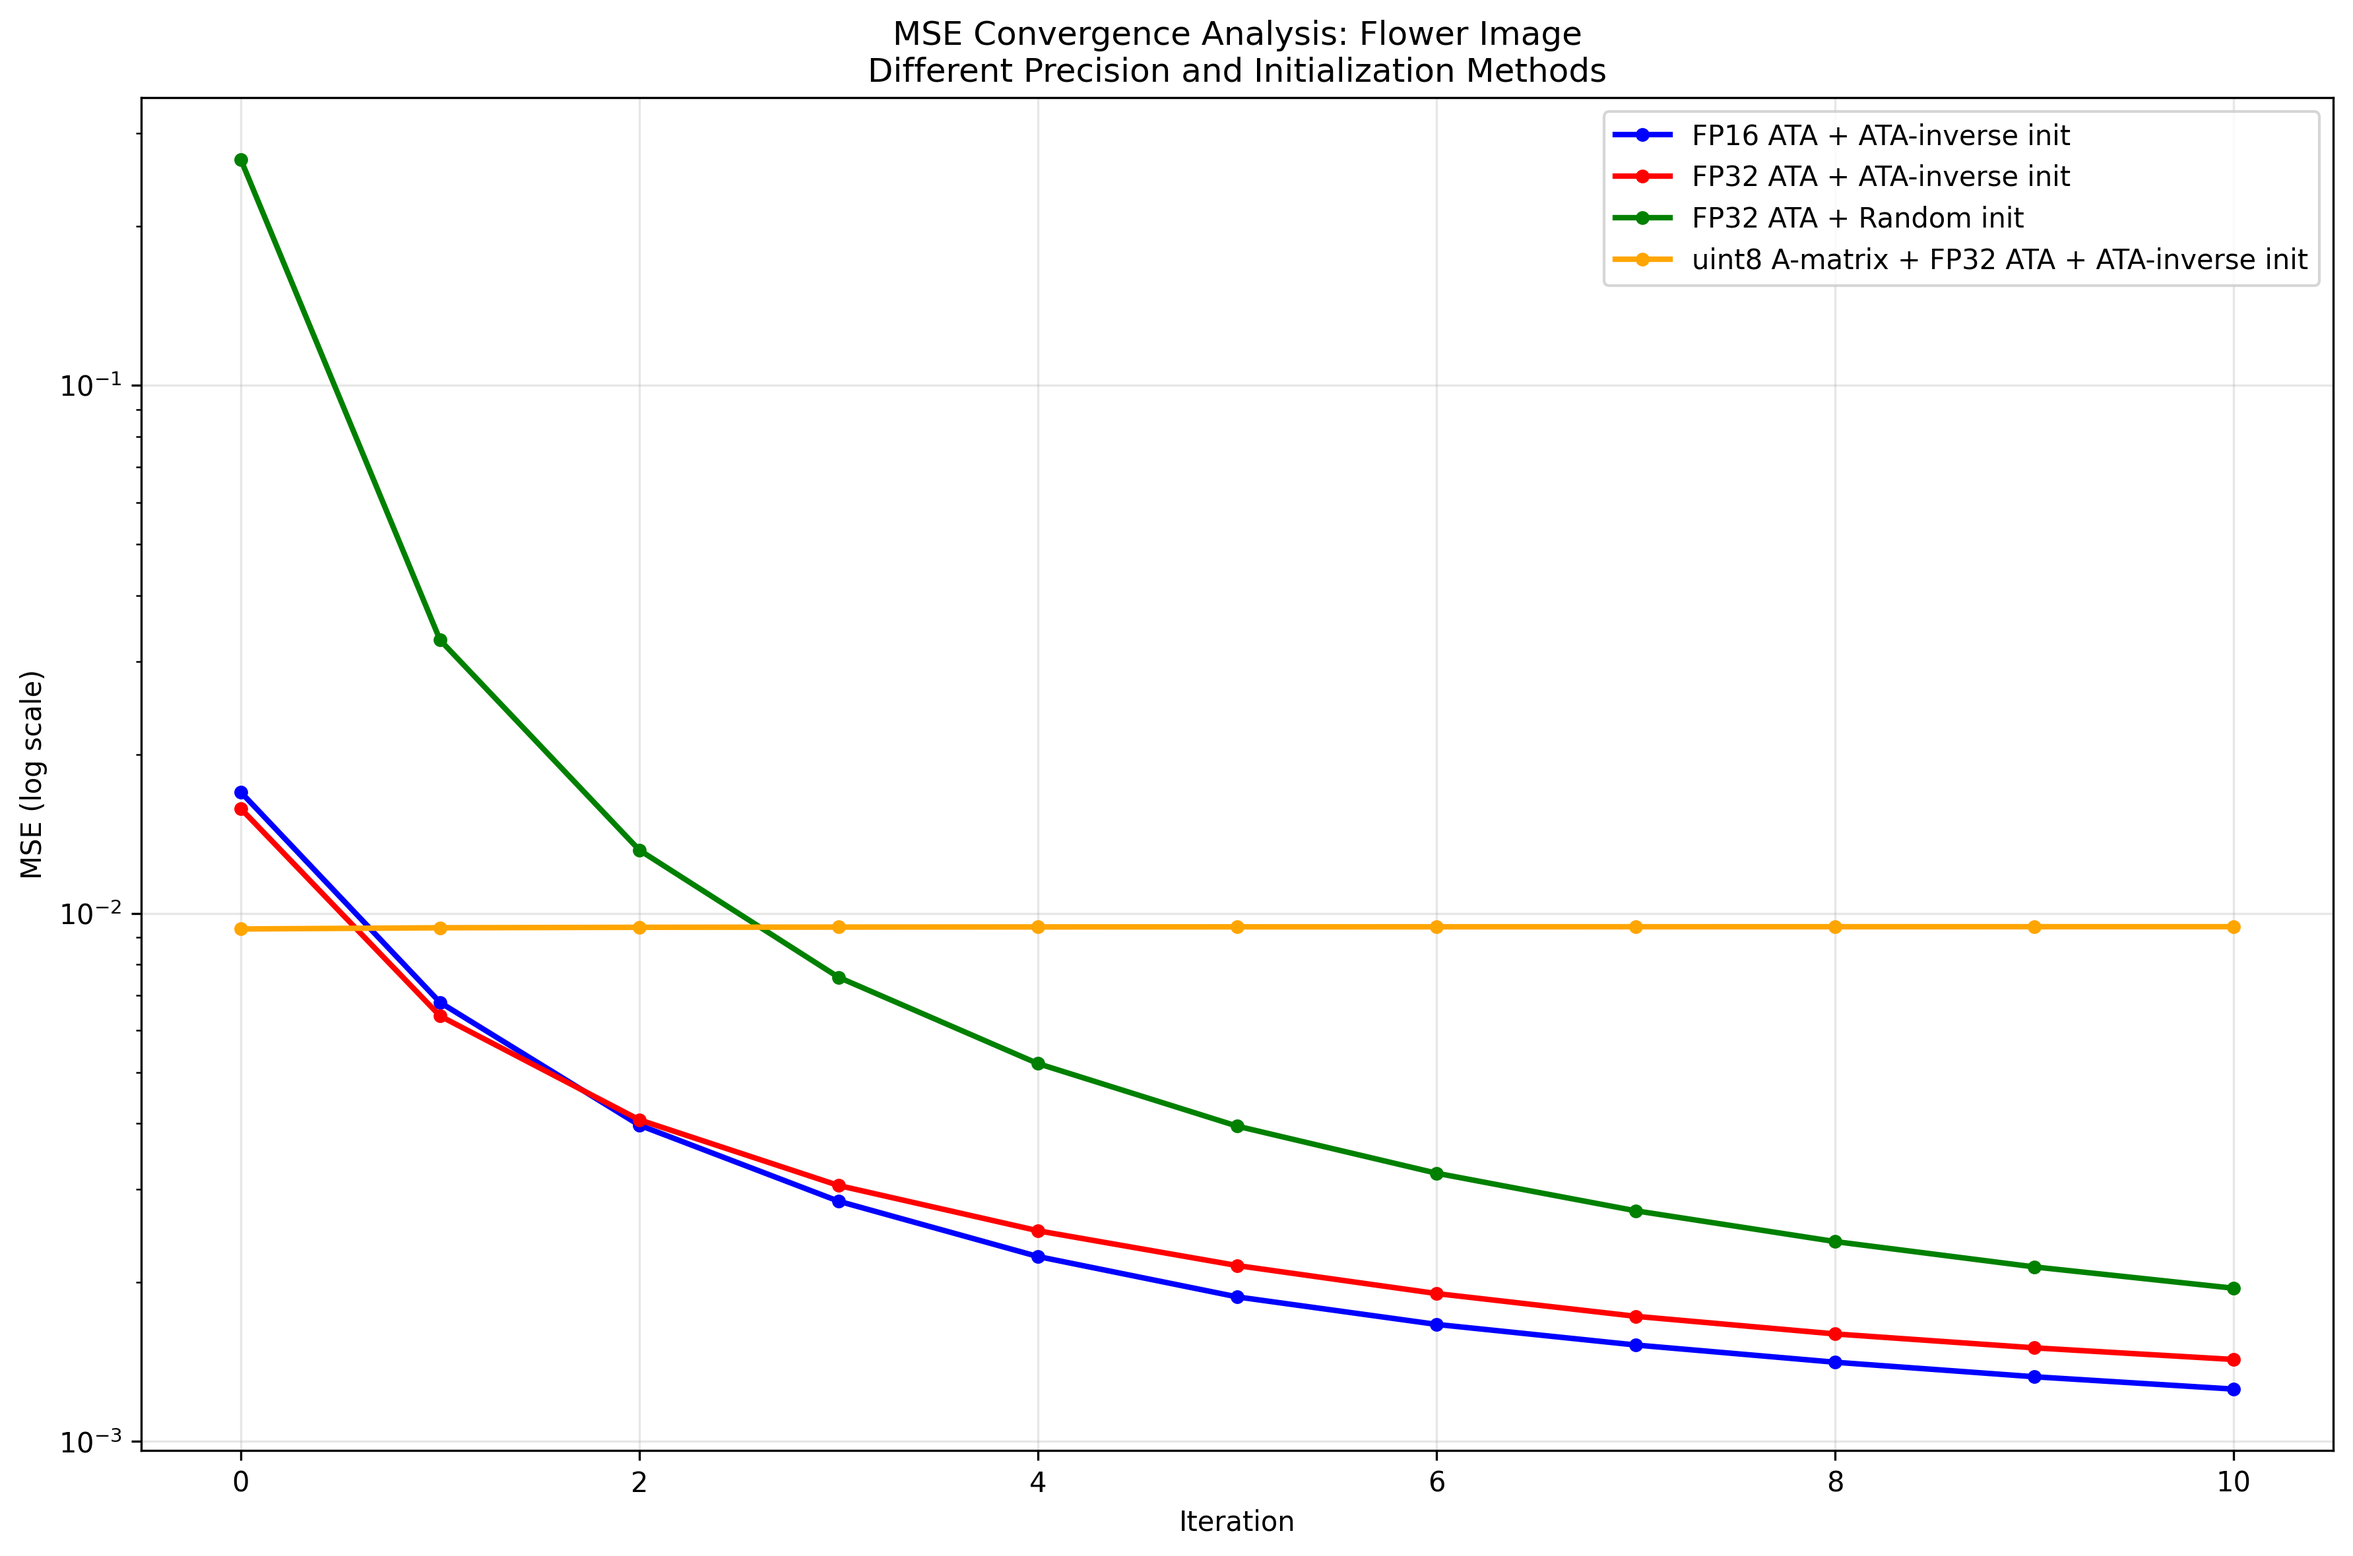
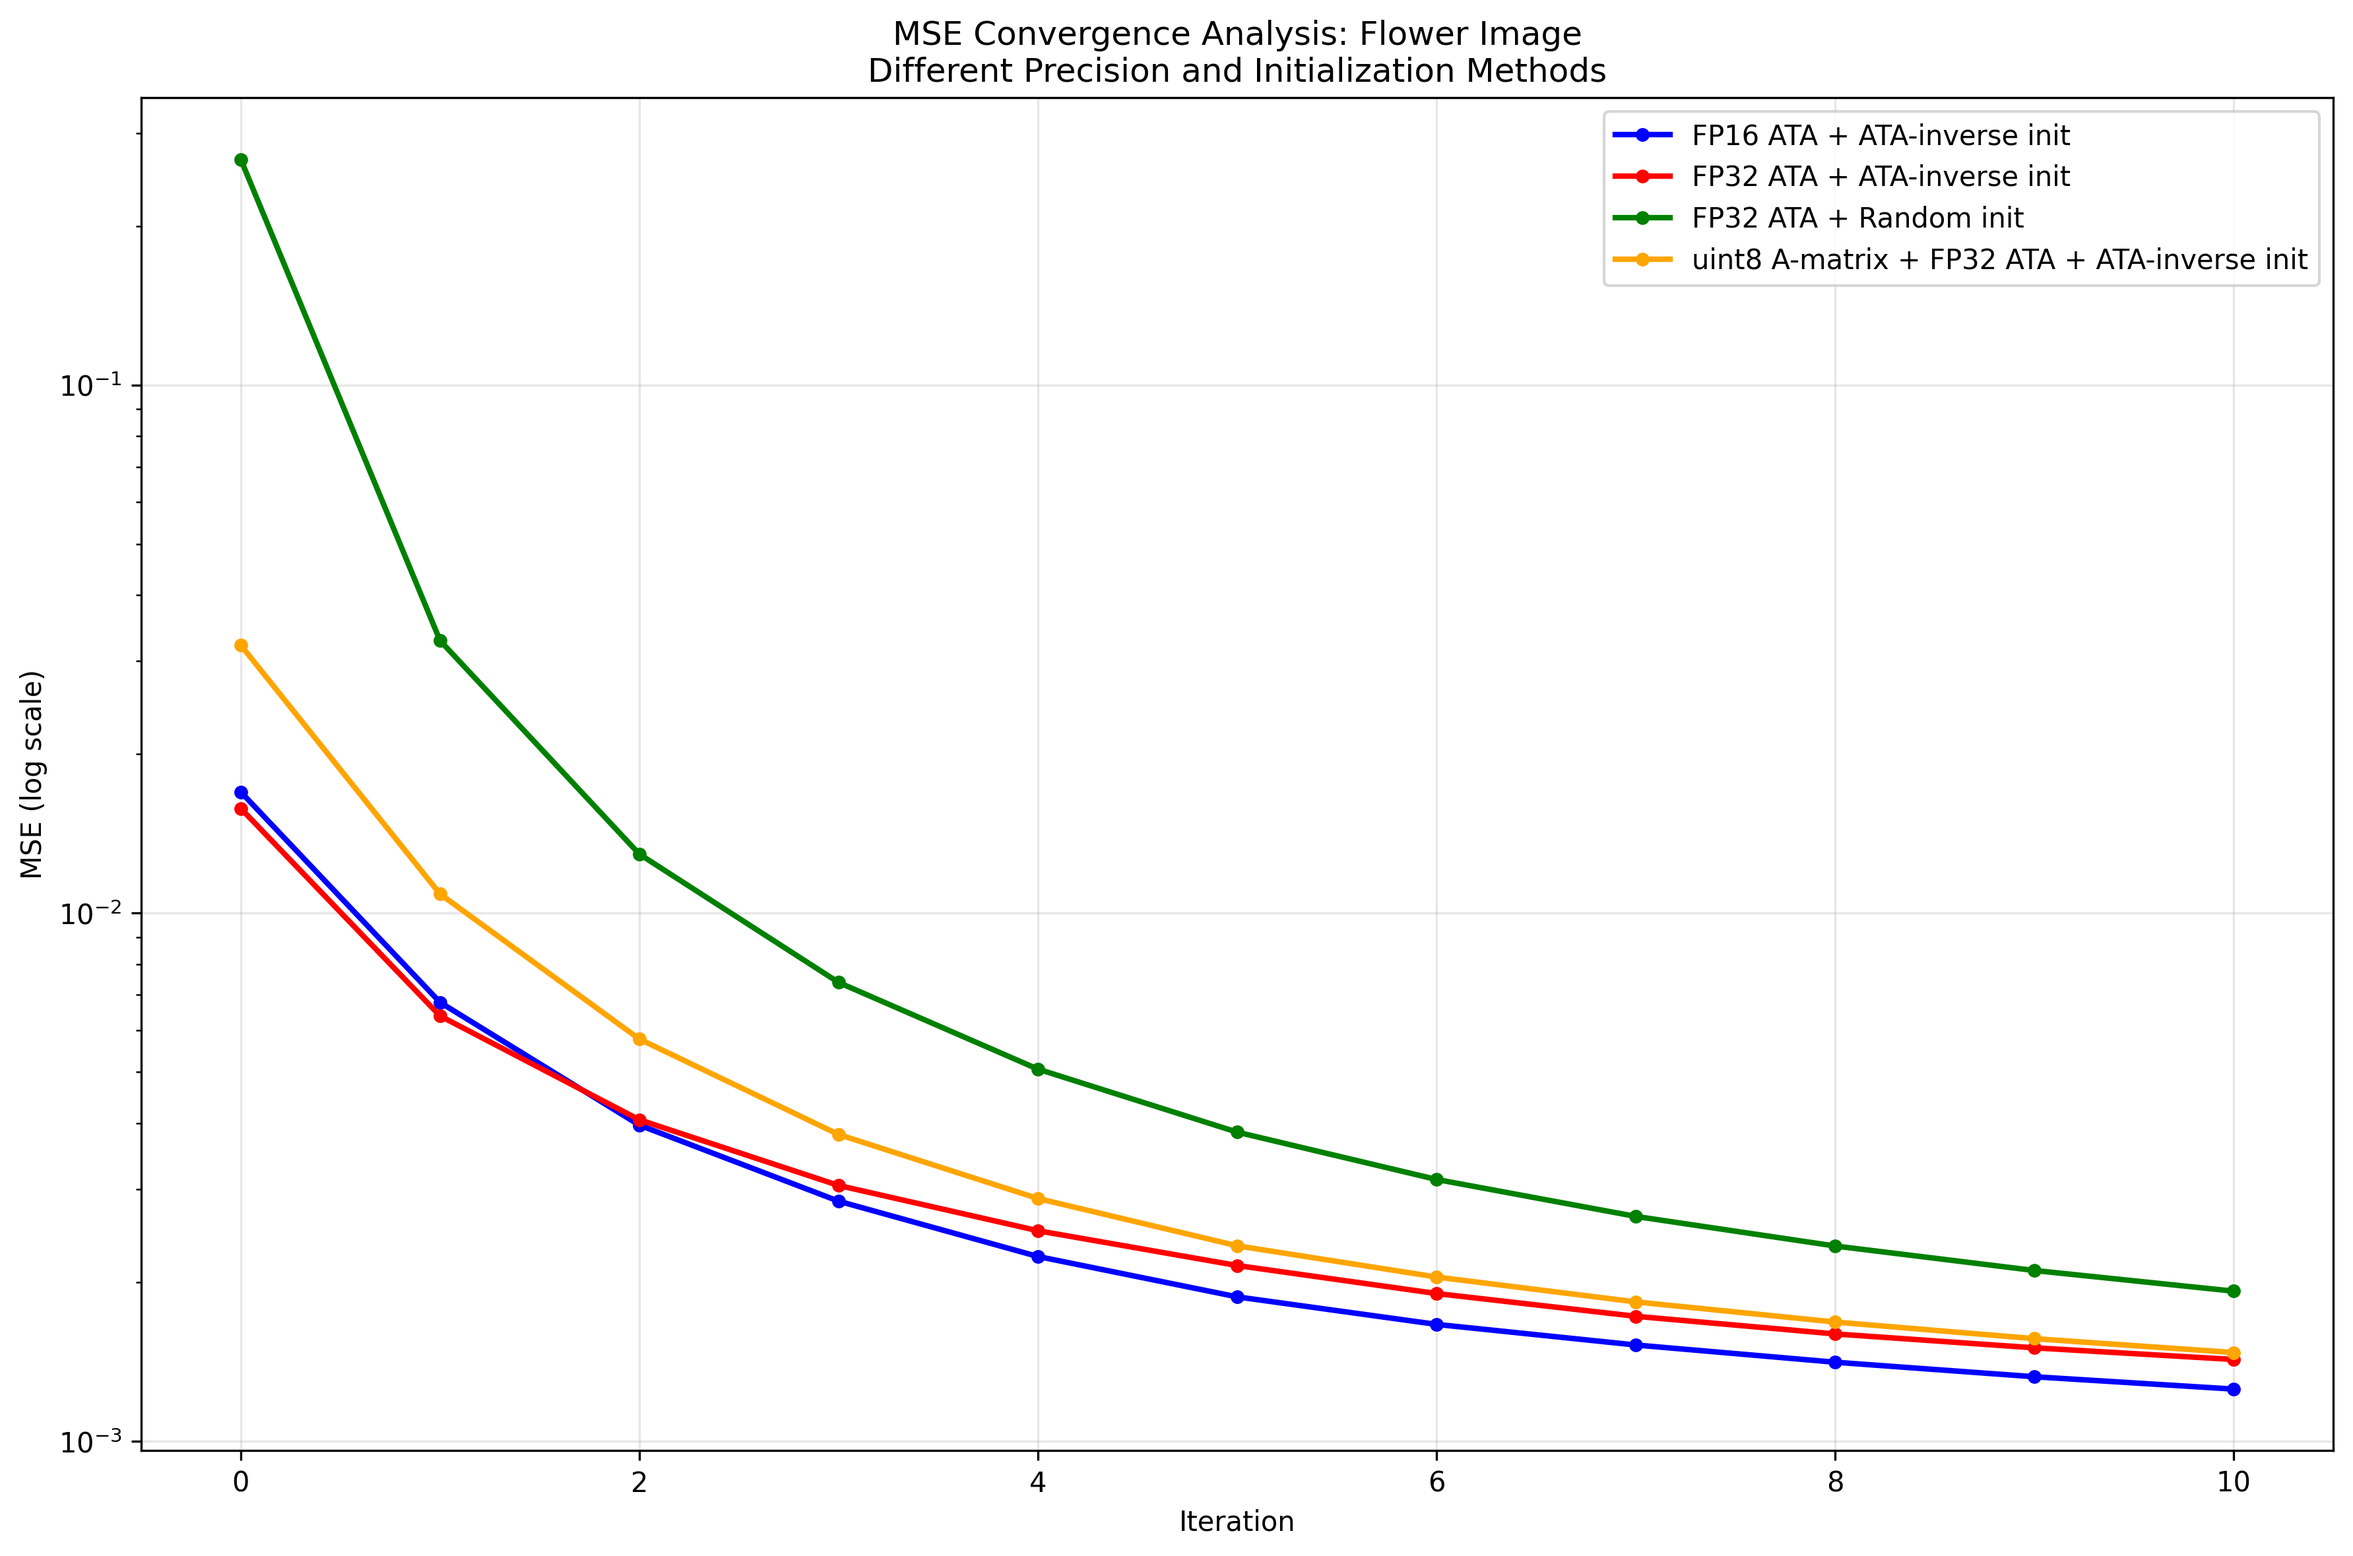
Fix critical uint8 scaling bug in forward_pass_3d
- Fix incorrect scaling factor in forward_pass_3d for uint8 matrices
- Change from 255² to 255 scaling for A @ x operation
- In forward pass: only A matrix is uint8, led_values are float32 [0,1]
- In A^T @ b: both A^T and b are uint8, so 255² scaling is correct there
- Update convergence plot showing fixed uint8 performance

Results: uint8 case now converges properly (95.4% MSE reduction vs -1.0% before)
and achieves competitive PSNR (28.32 dB vs 28.45 dB for fp32).

🤖 Generated with [Claude Code](https://claude.ai/code)

diff --git a/src/utils/single_block_sparse_tensor.py b/src/utils/single_block_sparse_tensor.py
@@ -394,8 +394,8 @@ class SingleBlockMixedSparseTensor:
                 if pattern_height > 0 and pattern_width > 0:
                     # Apply scaling to match the kernel normalization
                     if self.dtype == cp.uint8:
-                        # For int8 data, apply same normalization as the int8 kernel
-                        scale_factor = led_brightness / (255.0 * 255.0)
+                        # For uint8 A matrix: scale by 255 (only A is uint8, led_values are float32 [0,1])
+                        scale_factor = led_brightness / 255.0
                     else:
                         # For float32 data, apply direct scaling
                         scale_factor = led_brightness
